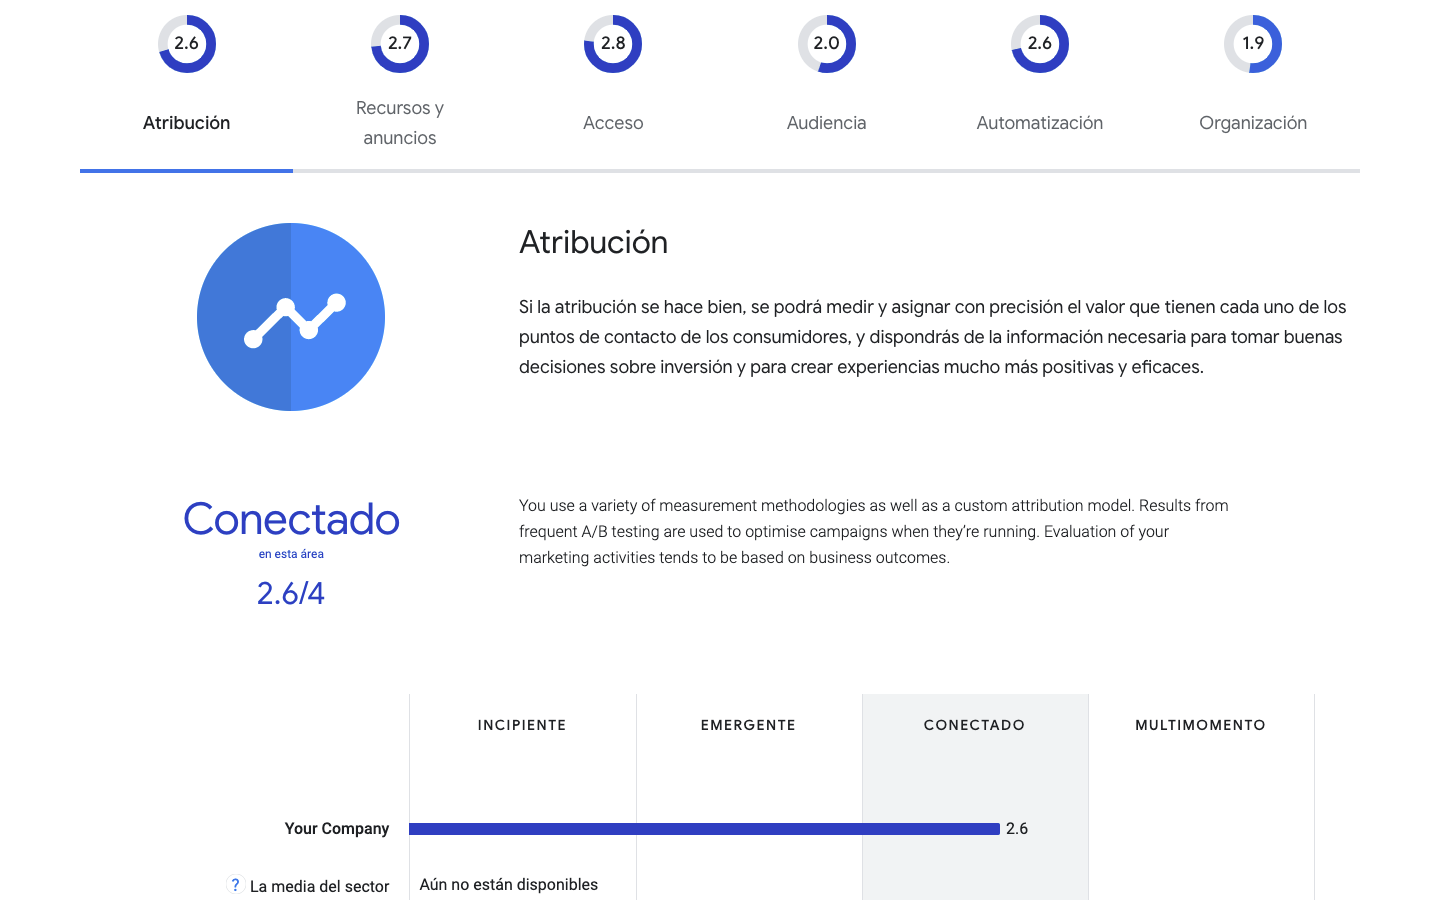
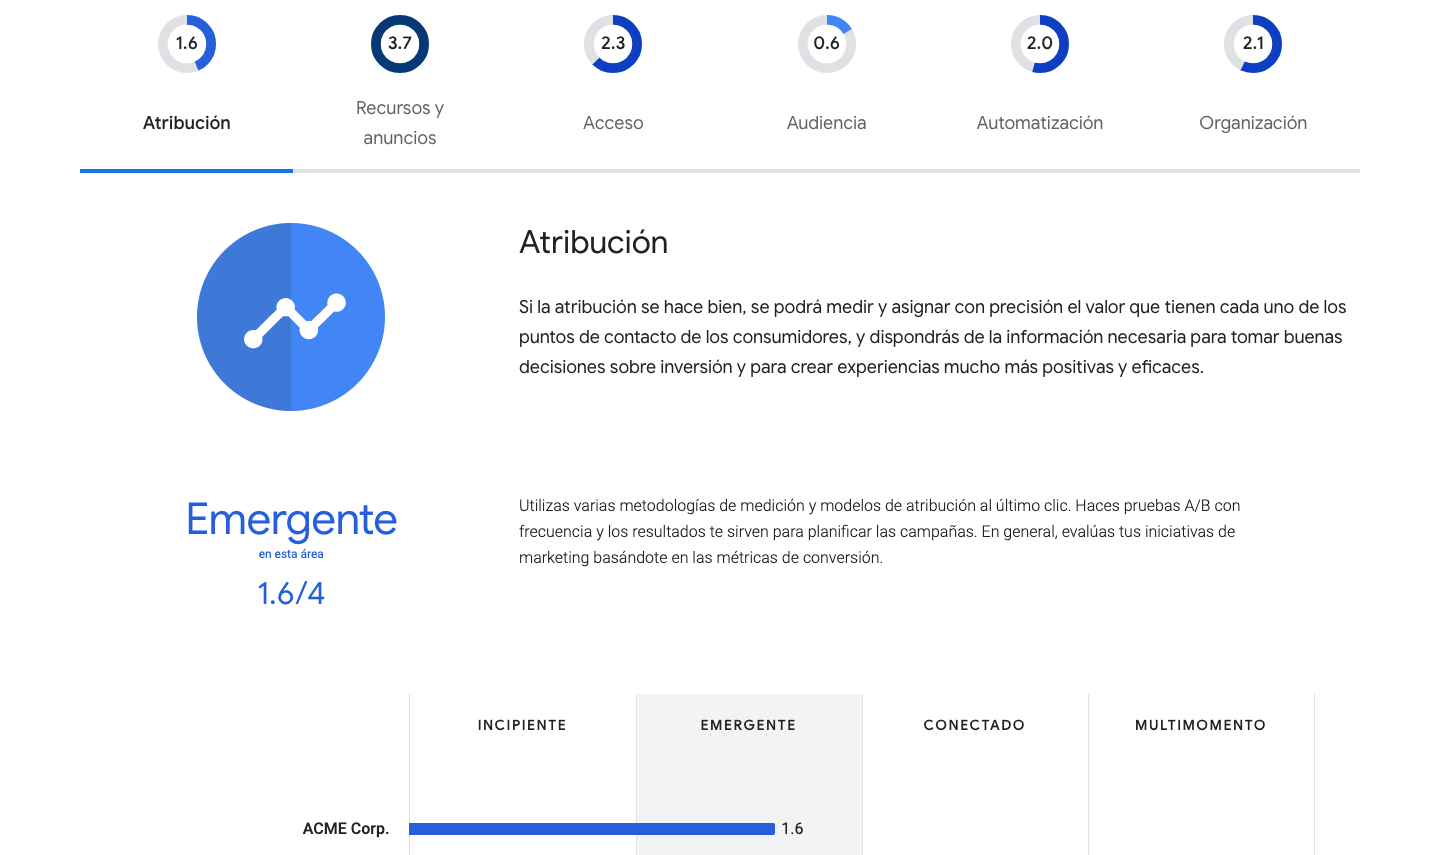
Added pre-defined scores to sample surveys

diff --git a/src/core/management/commands/create_sample_survey.py b/src/core/management/commands/create_sample_survey.py
@@ -4,8 +4,37 @@ from django.core.management.base import BaseCommand
 from core.tests.mommy_recepies import make_survey, make_survey_result
 
 import numpy
-import random
 import logging
+
+
+SAMPLE_DMB_D = {
+    'ads': {
+        "organization": 2.1,
+        "attribution": 1.6,
+        "access": 2.3,
+        "ads": 3.7,
+        "audience": 0.6,
+        "automation": 2.0
+    },
+    'retail': {
+        "emerging_monetization": 1.6,
+        "user_engagement": 2.0,
+        "core_sales": 3.0,
+        "strategic_direction": 0.95
+    },
+    'news': {
+        "reader_revenue": 1.2,
+        "reader_engagement": 2.8,
+        "strategic_direction": 3.5,
+        "advertising_revenue": 0.9
+    },
+    'cloud': {
+        "learn": 1.2,
+        "lead": 0.8,
+        "scale": 3.5,
+        "secure": 2.9
+    }
+}
 
 
 class Command(BaseCommand):
@@ -18,9 +47,7 @@ class Command(BaseCommand):
             with transaction.atomic(xg=True):
                 survey = make_survey(company_name='ACME Corp.', tenant=tenant)
                 # Create sample survey result
-                dimensions = tenants[tenant]['CONTENT_DATA']['dimensions']
-                max_level = tenants[tenant]['CONTENT_DATA']['levels_max']
-                dmb_d = {d: random.random() * max_level for d in dimensions}
+                dmb_d = SAMPLE_DMB_D[tenant]
                 dmb = numpy.average(dmb_d.values())
                 result = make_survey_result(survey=survey, dmb=dmb, dmb_d=dmb_d)
                 # Explicitly links the result to the survey as this isn't always completed.
